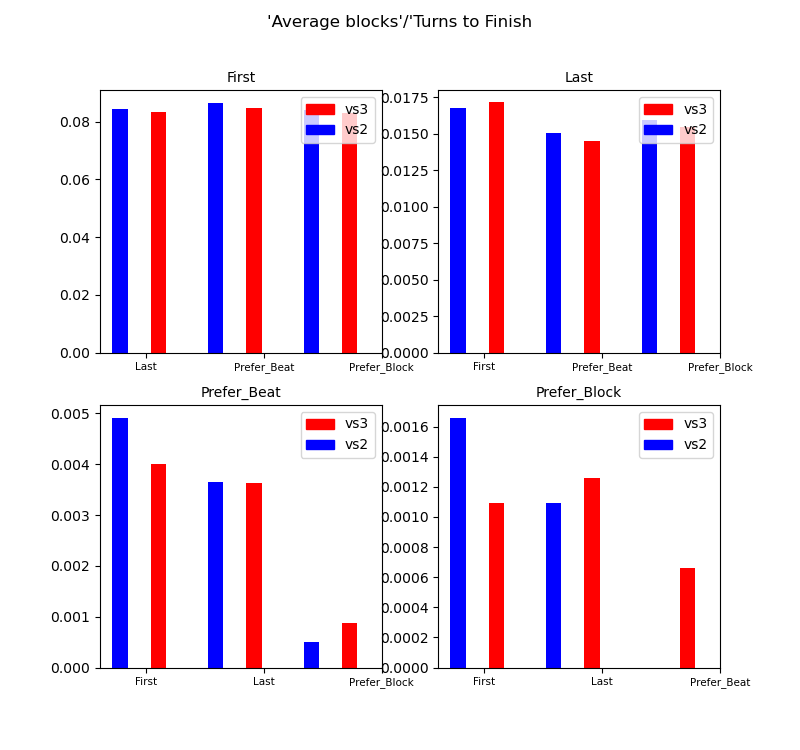
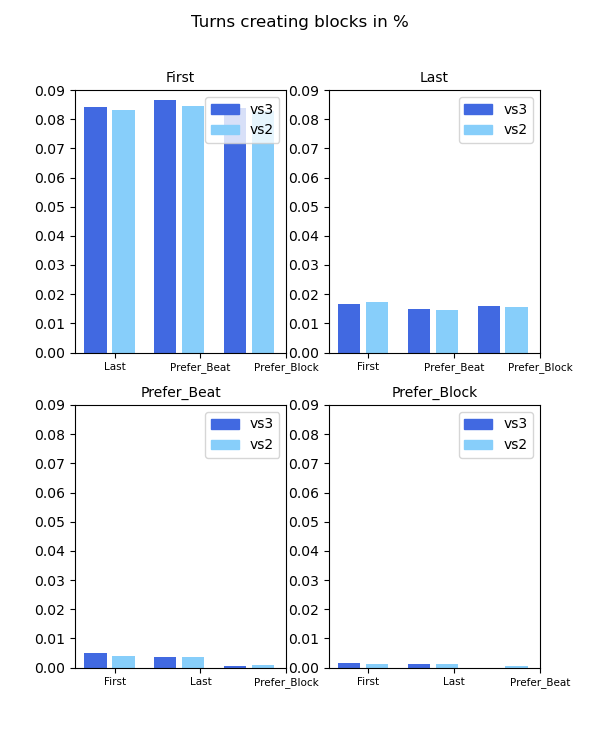
plots color changed

diff --git a/src/python_eval/plots.py b/src/python_eval/plots.py
@@ -53,22 +53,22 @@ class Harry_Plotter():
             enemy_list.remove(observer)
             positions = [0,1.25,2.5]
             v3_winrates,v2_winrates = self.extract_data_vs3_vs2(observer, subdata, enemy_list,"Winrate")
-            c_axis.bar(positions,v3_winrates,width = 0.4, color = 'b')
-            c_axis.bar([position+0.5 for position in positions],v2_winrates,width=0.4,color = 'r')
+            c_axis.bar(positions,v3_winrates,width = 0.4, color = 'royalblue')
+            c_axis.bar([position+0.5 for position in positions],v2_winrates,width=0.4,color = 'lightskyblue')
             ticks_positions = [position+0.25 for position in positions]
             c_axis.set_xticks(ticks_positions)
             c_axis.set_xticklabels(enemy_list,fontsize = 7.5)
             c_axis.set_ylim((0,0.75))
             c_axis.set_title(f"Winrates by {observer}",fontsize = 10)
-            colors = ['b','r']
+            colors = ['royalblue','lightskyblue']
             handles = [plt.Rectangle((0,0),1,1, color=color) for color in colors]
             c_axis.legend(handles,["vs3", "vs2"],loc = 'upper right')
             c_axis.axhline(y = 0.25,color = '0.75')
-            plt.suptitle("Winrates measured for every Strategy \n against 3 and 2 players of each other strategy")
+            plt.suptitle("Winrates measured in %")
             plt.savefig(self.path_plot_dir.joinpath("plots/winrate_plot.png"),dpi = fig.dpi)
 
     def plot_blocks_by_avg_turns(self):
-        fig,ax = plt.subplots(nrows = 2, ncols = 2, figsize = (8,7.5))
+        fig,ax = plt.subplots(nrows = 2, ncols = 2, figsize = (6,7.5))
         for i,observer in enumerate(self.observer_sim_dic.keys()):   
             x_axis = 0
             if i>1 : x_axis = 1
@@ -87,25 +87,24 @@ class Harry_Plotter():
             #weighted_most_blocks3 = [most_blocks3[i]/avg_turns_by_obs3[i] for i in range(len(most_blocks3))]
             #weighted_most_blocks2 = [most_blocks2[i]/avg_turns_by_obs2[i] for i in range(len(most_blocks2))] 
 
-            c_axis.bar(positions,weighted_avg_blocks3,width = 0.2,color = 'b')
-            #c_axis.bar([position+0.25 for position in positions],weighted_most_blocks3,width = 0.2,color = 'c')
-            #c_axis.bar([position+0.75 for position in positions],weighted_most_blocks2,width = 0.2,color = 'orange')
-            c_axis.bar([position+0.5 for position in positions],weighted_avg_blocks2,width = 0.2, color = 'r')
+            c_axis.bar(positions,weighted_avg_blocks3,width = 0.4,color = 'royalblue')
+            c_axis.bar([position+0.5 for position in positions],weighted_avg_blocks2,width = 0.4, color = 'lightskyblue')
             x_ticks = [0.34,1.88,3.42]
+            c_axis.set_ylim((0,0.09))
             c_axis.set_xticks(x_ticks)
             c_axis.set_xticklabels(enemy_list,fontsize = 7.5)
             c_axis.set_title(f"{observer}",fontsize = 10)
-            colors = ['r','b']
+            colors = ['royalblue','lightskyblue']
             handles = [plt.Rectangle((0,0),1,1, color=color) for color in colors]
             c_axis.legend(handles,["vs3", "vs2"],loc = 'upper right')
             #c_axis.set_ylim
-        plt.suptitle("'Average blocks'/'Turns to Finish")
+        plt.suptitle("Turns creating blocks in %")
         plt.savefig(self.path_plot_dir.joinpath("plots/block_by_turns.png"),dpi = fig.dpi)
 
 
     def plot_beats_by_avg_turns(self):
         
-        fig,ax = plt.subplots(nrows = 2, ncols = 2, figsize = (8,7.5))
+        fig,ax = plt.subplots(nrows = 2, ncols = 2, figsize = (6,7.5))
         for i,observer in enumerate(self.observer_sim_dic.keys()):   
             x_axis = 0
             if i>1 : x_axis = 1
@@ -118,28 +117,22 @@ class Harry_Plotter():
             positions = [0,1.25,2.5]
             avg_turns_by_obs3,avg_turns_by_obs2 = self.extract_data_vs3_vs2(observer,subdata,enemy_list,"Turns to Finish")
             avg_beats3,avg_beats2 = self.extract_data_vs3_vs2(observer,subdata,enemy_list,"Average Kicks")
-            most_beats3, most_beats2 = self.extract_data_vs3_vs2(observer, subdata, enemy_list, "Game most Kicks")
-          
             weighted_avg_beats3 = [avg_beats3[i]/avg_turns_by_obs3[i]for i in range(len(avg_beats3))]
             weighted_avg_beats2 = [avg_beats2[i]/avg_turns_by_obs2[i]for i in range(len(avg_beats2))]
-            weighted_most_beats3 = [most_beats3[i]/avg_turns_by_obs3[i] for i in range(len(most_beats3))]
-            weighted_most_beats2 = [most_beats2[i]/avg_turns_by_obs2[i] for i in range(len(most_beats2))] 
-
-            c_axis.bar(positions,weighted_avg_beats3,width = 0.2,color = 'b')
-            c_axis.bar([position+0.25 for position in positions],weighted_most_beats3,width = 0.2,color = 'c')
-            c_axis.bar([position+0.75 for position in positions],weighted_most_beats2,width = 0.2,color = 'r')
-            c_axis.bar([position+0.5 for position in positions],weighted_avg_beats2,width = 0.2, color = 'orange')
+            c_axis.bar(positions,weighted_avg_beats3,width = 0.4,color = 'royalblue')
+            c_axis.bar([position+0.5 for position in positions],weighted_avg_beats2,width = 0.4, color = 'lightskyblue')
             x_ticks = [0.34,1.88,3.42]
+            c_axis.set_ylim((0,0.275))
             c_axis.set_xticks(x_ticks)
             c_axis.set_xticklabels(enemy_list,fontsize = 7.5)
             c_axis.set_title(f"{observer}",fontsize = 10)
-            colors = ['c','orange']
+            
+            colors = ['royalblue','lightskyblue']
             handles = [plt.Rectangle((0,0),1,1, color=color) for color in colors]
             c_axis.legend(handles,["vs3", "vs2"],loc = 'upper right')
-            #c_axis.set_ylim
-        #plt.suptitle("'Average blocks'/'Turns to Finish")
-        #plt.savefig(self.path_plot_dir.joinpath("plots/block_by_turns.png"),dpi = fig.dpi)
-        plt.show()
+        plt.suptitle("Beating turns in %")
+        plt.savefig(self.path_plot_dir.joinpath("plots/beats_by_turns.png"),dpi = fig.dpi)
+        
 
     def extract_data_vs3_vs2(self,observer: str,subdata: pd.DataFrame, enemy_list : list, column : str)-> tuple:
         # function extracts data for every opponent strategy for a given observer. extracts the given column in the dataframe for the given data.
